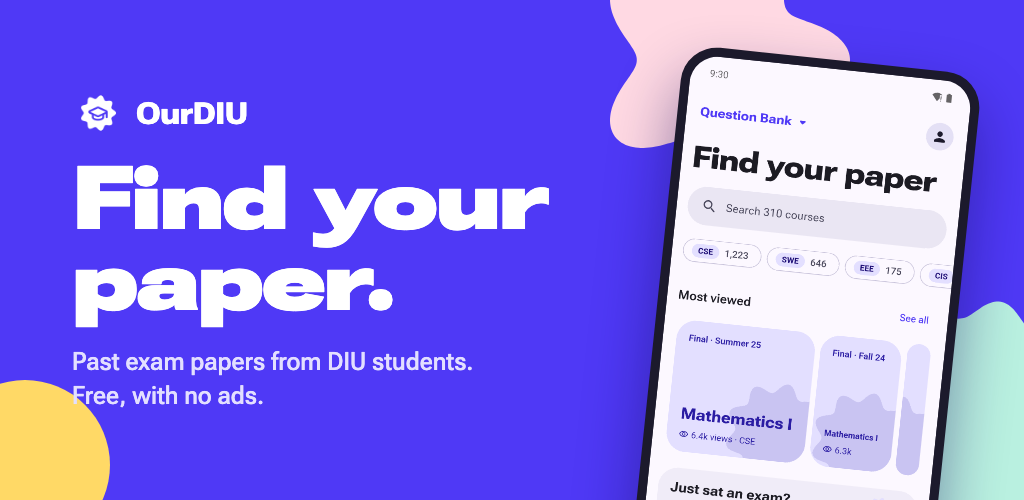
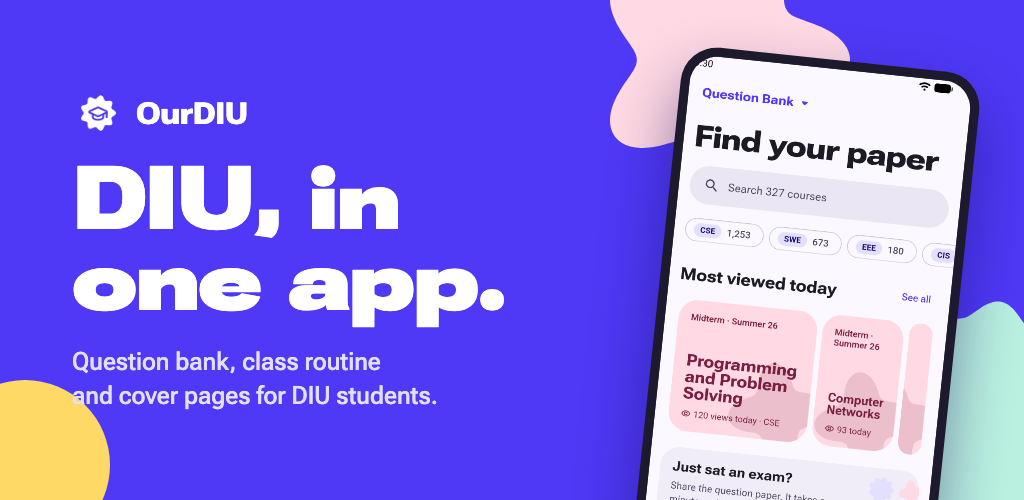
Play listing: search-friendly text, new screenshots and feature graphic (#63)
* Play listing: search-friendly text, new screenshots and feature graphic

The short description leads with what students search ("DIU question
bank", "previous year questions", "class routine", "cover pages") and drops
"free", which Play flags. The screenshots are retaken from today's app (the
old ones predated the redesign and showed only the Question Bank), the
feature graphic names all three products, and data-safety.md matches the
app with Analytics.

* PLAN: where the Play listing update stands

* PLAN: Play listing and Data safety sent for review

* Releases go straight to production: record the publisher's permission

mobile-v1.15.0 was the first tag released to production by the workflow; Play
refused it until the service account could release to production. The
workflow's header still said closed testing.

---------

diff --git a/apps/mobile/store/feature-graphic.html b/apps/mobile/store/feature-graphic.html
@@ -31,8 +31,8 @@
   <svg class="shape" style="left:-60px;top:380px" width="170" height="170" viewBox="-1 -1 2 2"><circle r="1" fill="#ffd966"/></svg>
   <div class="copy">
     <div class="brand"><img src="../assets/brand/icon_foreground.png" alt="">OurDIU</div>
-    <h1>Find your paper.</h1>
-    <p>Past exam papers from DIU students.<br>Free, with no ads.</p>
+    <h1>DIU, in one app.</h1>
+    <p>Question bank, class routine<br>and cover pages for DIU students.</p>
   </div>
   <div class="phone"><img src="screenshots/01-home.png" alt=""></div>
 </div>

diff --git a/docs/PLAN.md b/docs/PLAN.md
@@ -288,8 +288,9 @@ Then:
 - [x] App (25 October 2026): `firebase_core` and `firebase_analytics`, `lib/data/analytics.dart` (an `Analytics` interface, a global no-op until `startAnalytics` in release builds on Android; `trackScreens` on the router's delegate, by `fullPath`, deduplicated), the manifest flags, and the six events: `login` (`SignIn.signIn`), `app_link_open`, `share` (a paper's link, with its question id), `paper_download` (the PDF downloaded for the share sheet), `upload_start` (`openUploadForm`) and `upload_submit` (a new upload sent, not an edit), both with `source`. `test/analytics_test.dart` checks screens are reported by pattern, once each.
 - [x] Checked on an emulator with a release build and `debug.firebase.analytics.app`: `first_open`, screen views by pattern (`/questions/:id`, `/browse`), `app_link_open` on a cold and a warm link, `paper_download`, and `share` with `content_type=paper`, `item_id`, `method=link`; the APK asks for no advertising permission (`aapt2 dump permissions`). Not checked on a device: `login`, `upload_start` and `upload_submit` (they need a signed-in DIU account). A local build must use a current version code (`--build-number`), or the update gate covers the app.
 - [x] Privacy page, "In the mobile app": Google Analytics' screens and actions, app version, phone model and Android version, rough location, an app-made ID (not the advertising ID, not linked to the account), reset by clearing the app's data; still no cookies. `LEGAL_UPDATED` 25 October 2026.
-- [ ] Owner, before the release goes for review: Play Console → App content → Data safety: collected, not shared (Google is a service provider), encrypted in transit, not optional: **App activity → App interactions** and **Device or other IDs**, both for Analytics only, not processed ephemerally; and **App info and performance → Diagnostics** only if Crashlytics is added later. Declaring them before the release ships is allowed.
-- [ ] Release above `mobile-v1.14.0`; in GA4, a week later, read screens by product, `app_link_open` beside the site's `app_sheet_open` / `app_card_open`, and the upload funnel.
+- [x] Data safety: drafted in Play Console on 25 October 2026 (through AnyDesk, saved as a draft, not sent for review). Added beside the existing name, email and user IDs: **Other in-app messages** (review conversations; optional, app functionality), **Files and docs** (uploaded PDFs; optional, app functionality), **App interactions** (required; app functionality and analytics), **Other user-generated content** (report notes; optional, app functionality) and **Device or other IDs** (Analytics' app-instance ID; required, analytics). All collected, none shared, none ephemeral. Saved and sent for review with the listing on 25 October 2026. Checked and still right: privacy policy `https://ourdiu.com/privacy`, delete-account URL, Advertising ID "not used" (the build removes it), no policy issues.
+- [x] Store listing, made search-friendly (25 October 2026; `apps/mobile/store/listing.md`): the name stays "OurDIU: DIU Question Bank" (decision 18, what students search); the short description is "DIU question bank with previous year questions, class routine & cover pages." (no "free", which Play flags); the full description uses the search phrases (DIU question bank, previous year questions, DIU class routine, cover page) and describes all three products. Both are pasted in Play Console and saved as a draft. New phone screenshots (Question Bank home, a course, the reader, routine Today, a section's week, Cover Page form and preview, the product chooser) and a feature graphic for all three products are in `store/` and were downloaded on the remote PC to `~/Downloads` (`01-home.png` … `08-products.png`, `feature-graphic-oct26.png`). On 25 October 2026 the 8 screenshots and the feature graphic replaced the old ones in Play Console, and the listing (short and full description, screenshots, feature graphic) and the Data safety form were sent for review together (Publishing overview: "Changes in review"). The AI asset declaration was left at the owner's earlier answer. Published the same day (Publishing overview: last published 25 October 2026). Left: check Play Console's search terms report after a week or two.
+- [x] Released `mobile-v1.15.0` (version code 1015000) on 25 October 2026, the first tag to go straight to production through the workflow: the first run uploaded the bundle but Play refused to commit it ("The caller does not have permission"), because `play-publisher@ourdiu.iam.gserviceaccount.com` could only release to testing tracks (it was invited before production access). The owner's go-ahead: in Users and permissions it now also has "Release to production, exclude devices, and use Play App Signing" for OurDIU, and the re-run committed a full production rollout, in review. From now on a `mobile-v*` tag goes live once Google approves it (managed publishing is off). Left: in GA4, a week after it's live, read screens by product, `app_link_open` beside the site's `app_sheet_open` / `app_card_open`, and the upload funnel; check `login`, `upload_start` and `upload_submit` in DebugView or Realtime.
 
 ## Operating rules
 

diff --git a/apps/mobile/store/listing.md b/apps/mobile/store/listing.md
@@ -21,41 +21,50 @@ university's own.
 ## Short description (max 80)
 
 ```
-DIU past question papers, your class routine and cover pages. Free, no ads.
+DIU question bank with previous year questions, class routine & cover pages.
 ```
+
+No "free" or other price words here: Play flags them in the short description
+("may not be promoted"). The name and this line carry the most weight in Play and
+Google search, so both lead with what students type: "DIU question bank",
+"previous year questions", "class routine", "cover page".
 
 ## Full description (max 4000)
 
+Play and Google index this too. Say the search phrases naturally, once or twice
+each (DIU question bank, previous year questions, question papers, DIU class
+routine, cover page), never as a keyword list.
+
 ```
-OurDIU is a free app for students of Daffodil International University (DIU): the DIU Question Bank of past exam papers, your class routine and a cover page maker, in one app with one account.
+OurDIU brings the DIU Question Bank, your DIU class routine and a cover page maker to one app for students of Daffodil International University (DIU).
 
 DIU QUESTION BANK
-Previous final, midterm and quiz questions of every department, shared by students.
-• Browse by department and course, or search by course name or code.
+Previous year questions for DIU's departments: final, midterm and quiz question papers, shared by DIU students.
+• Browse by department and course, or search by course name or code (CSE, SWE, EEE, CIS, ITM and more).
 • Filter by semester and exam type.
 • A fast, full-screen reader built for question papers.
 • Save papers to come back to before your exam, and share one with classmates in one tap.
 
 SHARE A PAPER
-• Scan a paper with your camera, pick a PDF from your files, or share one to OurDIU from WhatsApp, Messenger or Drive.
+• Scan a question paper with your camera, pick a PDF from your files, or share one to OurDIU from WhatsApp, Messenger or Drive.
 • The app suggests the course, semester and exam type for you.
 • Watch your paper get checked and published, and see how many students it has helped.
 
-CLASS ROUTINE
-DIU's routine for CSE, EEE and SWE, read from the department's latest version.
+DIU CLASS ROUTINE
+The class routine for CSE, EEE and SWE, read from the department's latest version.
 • Today: the class you're in, the next one, and the rest of the day, with the room and teacher.
 • Your section's week with your lab group, and home screen widgets with your classes.
-• Find any section or teacher, see a teacher's room, email and phone, and save a week as a PDF.
+• Find any section or teacher by initials, see a teacher's room, email and phone, and save a week as a PDF.
 • Works offline once your section is set.
 
 COVER PAGE MAKER
-• Cover pages for assignments and lab reports, filled in from your routine: pick the course and the teacher is there.
-• Add your group's members, then share the PDF or a Word file.
+• DIU cover pages for assignments, lab reports, presentations, project and internship reports and final-year projects, plus a lab report index.
+• Pick the course and the teacher is filled in from your routine; add your group's members, then share the PDF or a Word file.
 
 SIGN IN WITH GOOGLE
-Browsing, reading and the routine need no account. Sign in with Google to like the useful papers and report problems, and with your DIU account to share papers. One account works across OurDIU and ourdiu.com.
+Browsing, reading, the routine and cover pages need no account. Sign in with Google to like the useful papers, report problems and keep your saved papers across devices; sharing papers needs your DIU email. One account works across OurDIU and ourdiu.com.
 
-FREE, WITHOUT ADS
+NO ADS
 No ads, no paywalls, no premium papers. OurDIU is built and looked after by a DIU student.
 
 OurDIU is an independent project, not an official app of Daffodil International University. Papers are shared by students and routines are read from the department's published files; if you find a problem, report it from the app.
@@ -76,6 +85,11 @@ Website: https://ourdiu.com
 - **App icon:** `icon-512.png` (512×512), drawn by `tool/brand/render.mjs`.
 - **Feature graphic:** `feature-graphic.png` (1024×500), from
   `feature-graphic.html` (`node apps/mobile/store/render-feature-graphic.mjs`).
-- **Phone screenshots:** `screenshots/` (1080×2400), in this order. Taken on
-  the `QuestionBank_Pixel` emulator with the status bar in demo mode (9:30, full
-  battery, no notifications). `08-products.png` is the first-launch chooser.
+- **Phone screenshots:** `screenshots/` (1080×2400), in this order: Question Bank
+  home, a course, the reader, the routine's Today, a section's week, the Cover
+  Page form, its preview, and the first-launch chooser (all three products).
+  Retaken on 25 October 2026 on the `Medium_Phone` emulator from a profile build
+  (it never reports to Analytics), the status bar in demo mode (9:30, full
+  battery), the clock set to a Monday morning so Today shows a class in progress,
+  and the cover page filled in with a made-up student. Retake them when a screen
+  they show changes.

diff --git a/apps/mobile/store/data-safety.md b/apps/mobile/store/data-safety.md
@@ -13,7 +13,7 @@ something new.
 **Which of the following methods of account creation does your app support?**
 OAuth (Sign in with Google).
 
-**Delete account URL:** https://diuqbank.com/delete-account (https://ourdiu.com/delete-account after the cutover in docs/PLAN.md)
+**Delete account URL:** https://ourdiu.com/delete-account
 
 **Do you provide a way for users to request that some or all of their data is
 deleted, without requiring them to delete their account?** Yes: withdrawing an
@@ -21,7 +21,7 @@ upload that isn't published yet, and undoing a like or dislike, both in the app.
 
 ### Data types
 
-Nothing is **shared** in Play's sense: Cloudflare, Google (sign-in, Gemini) and the PDF service are service providers acting on your behalf,
+Nothing is **shared** in Play's sense: Cloudflare, Google (sign-in, Gemini, Analytics) and the PDF service are service providers acting on your behalf,
 and a published paper showing your name is something you chose to do.
 
 | Category | Data type | Collected | Required? | Purposes |
@@ -30,17 +30,21 @@ and a published paper showing your name is something you chose to do.
 | Personal info | Email address | Yes | Optional | App functionality, Account management |
 | Personal info | User IDs | Yes (Google account ID, username) | Optional | App functionality, Account management |
 | Personal info | Other info | Yes (profile photo from Google) | Optional | App functionality, Account management |
+| Messages | Other in-app messages | Yes (review conversations about your uploads) | Optional | App functionality |
 | Files and docs | Files and docs | Yes (PDFs you upload) | Optional | App functionality |
-| App activity | App interactions | Yes (likes, dislikes, reports) | Optional | App functionality |
+| App activity | App interactions | Yes (likes, dislikes, reports, saved papers; Google Analytics' screens and events) | Required (Analytics has no opt-out) | App functionality, Analytics |
 | App activity | Other user-generated content | Yes (a report's note) | Optional | App functionality |
+| Device or other IDs | Device or other IDs | Yes (Google Analytics' app-instance ID; not the advertising ID) | Required | Analytics |
 
 Everything above is **not processed ephemerally** (it's stored).
 
 **Not collected:** location, contacts, photos and videos (a camera scan becomes
 the PDF you upload, which is under Files and docs; nothing else leaves the
 phone), audio, calendar, messages, health, financial info, web browsing, and
-installed apps, crash logs and diagnostics (the app has no crash reporter or
-analytics yet; add them here when it does). "Send feedback" puts the app version
+installed apps, crash logs and diagnostics (Google Analytics for Firebase records screens
+and a few events, docs/PLAN.md decision 58, but there's no crash reporter; add
+Crashlytics here if it comes). The **Advertising ID** declaration stays "not
+used": the build removes the `AD_ID` permission. "Send feedback" puts the app version
 and phone model in an email the user sends from their own mail app, which Play
 doesn't count as collection. Saved papers, recent courses and the theme stay on the phone and
 aren't "collected" (Play only counts data sent off the device).

diff --git a/README.md b/README.md
@@ -254,7 +254,7 @@ One-time setup:
    ```
    Releases from this repository use the Google Cloud project `ourdiu` (number `279664469023`), with the provider named `ourdiu` instead of `diuqbank` and this repository's ID, `1398723748` (`gh api repos/SourovCodes/OurDIU --jq .id`), instead of `817495452` (the QuestionBank repository, which used the `diuquestionbank` project).
 4. **GitHub variables** (Settings → Secrets and variables → Actions → Variables): `GCP_WORKLOAD_IDENTITY_PROVIDER` = `projects/<PROJECT_NUMBER>/locations/global/workloadIdentityPools/github/providers/diuqbank` and `GCP_SERVICE_ACCOUNT` = `play-publisher@<PROJECT_ID>.iam.gserviceaccount.com`.
-5. **Play Console access for the service account.** Users and permissions → Invite new users → the service account's email. Give it access to the app with "Release apps to testing tracks" (add "Release to production…" once the app has production access).
+5. **Play Console access for the service account.** Users and permissions → Invite new users → the service account's email. Give it access to the app with "Release apps to testing tracks" and "Release to production, exclude devices, and use Play App Signing" (OurDIU's has both since 25 October 2026; without the second, a tag uploads the bundle and then fails with "The caller does not have permission").
 6. **Release.** Push a `mobile-v*` tag above the last one (`mobile-v1.5.0`, from the QuestionBank repository). Releases arrive as drafts on the internal track: roll them out in Play Console (Testing → Internal testing). Once Google has reviewed the app, set `PLAY_RELEASE_STATUS` to `completed` so internal releases go out without that step.
 
 ## Testing strategy
